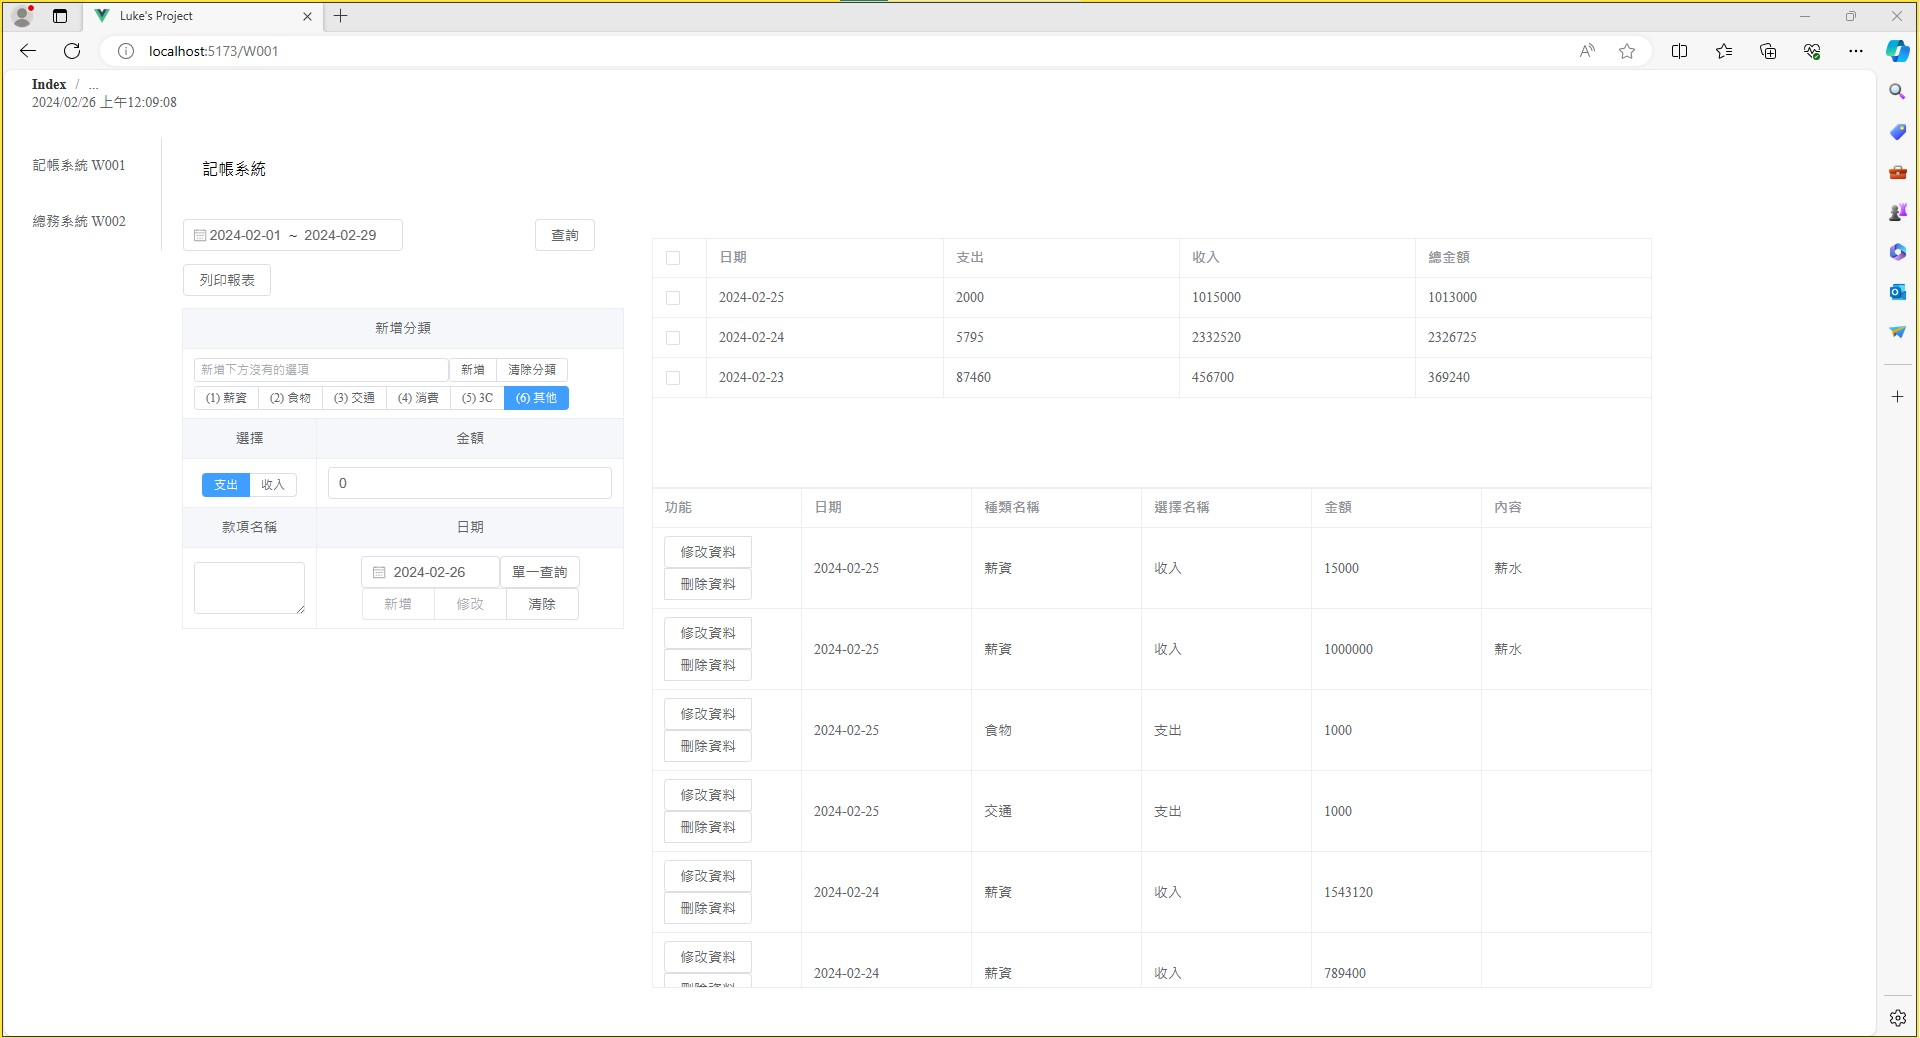
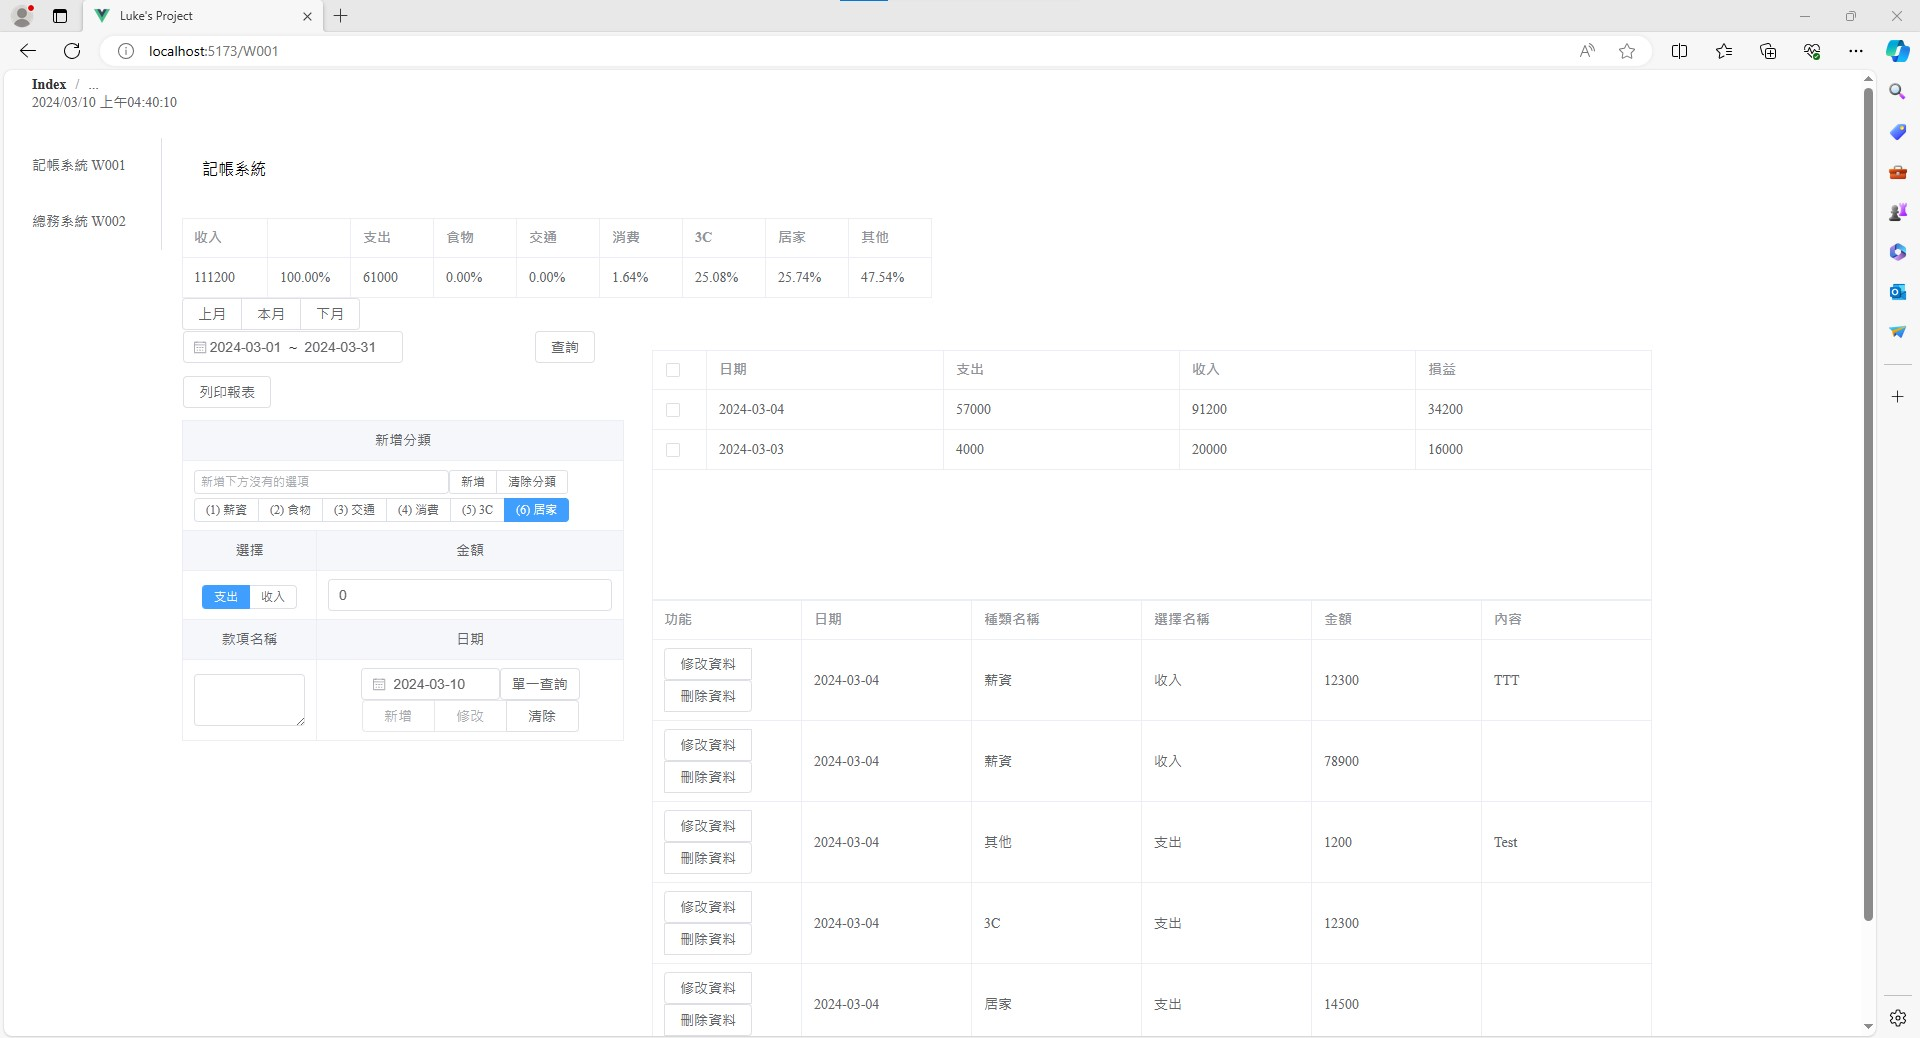
2024-03-10 Luke 增加比例%數

diff --git a/showWeb.md b/showWeb.md
@@ -1,6 +1,7 @@
 # project_document
 index(1)首頁<br>
 ![image](https://github.com/LifanC/project_document/blob/InterviewWorks/Index.jpg)<br>
+![image](https://github.com/LifanC/project_document/blob/InterviewWorks/Index_1.jpg)<br>
 ![image](https://github.com/LifanC/project_document/blob/InterviewWorks/W001.jpg)<br>
-![image](https://github.com/LifanC/project_document/blob/InterviewWorks/W002_1.jpg)<br>
 ![image](https://github.com/LifanC/project_document/blob/InterviewWorks/W002.jpg)<br>
+![image](https://github.com/LifanC/project_document/blob/InterviewWorks/W002_1.jpg)<br>
